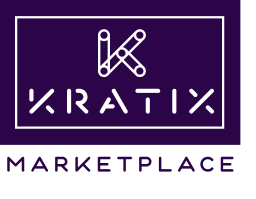
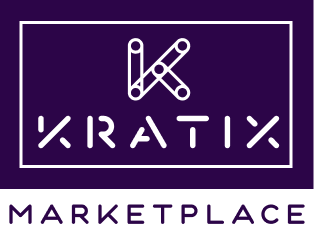
Fix: image size

diff --git a/README.md b/README.md
@@ -1,12 +1,11 @@
+<p align="center">
+  <img
+    src="./kratix_marketplace.png"
+    alt="Kratix logo"
+  />
+</p>
+
 # Kratix Marketplace
-
-<img
-align="left"
-src="./kratix_marketplace.png"
-alt="Kratix logo"
-/>
-
-κρατήστε μια υπόσχεση | _kratíste mia ypóschesi_ | **Keep a promise**
 
 [![syntasso](https://circleci.com/gh/syntasso/kratix-marketplace.svg?style=shield)](https://app.circleci.com/pipelines/github/syntasso/kratix-marketplace?branch=main)
 
